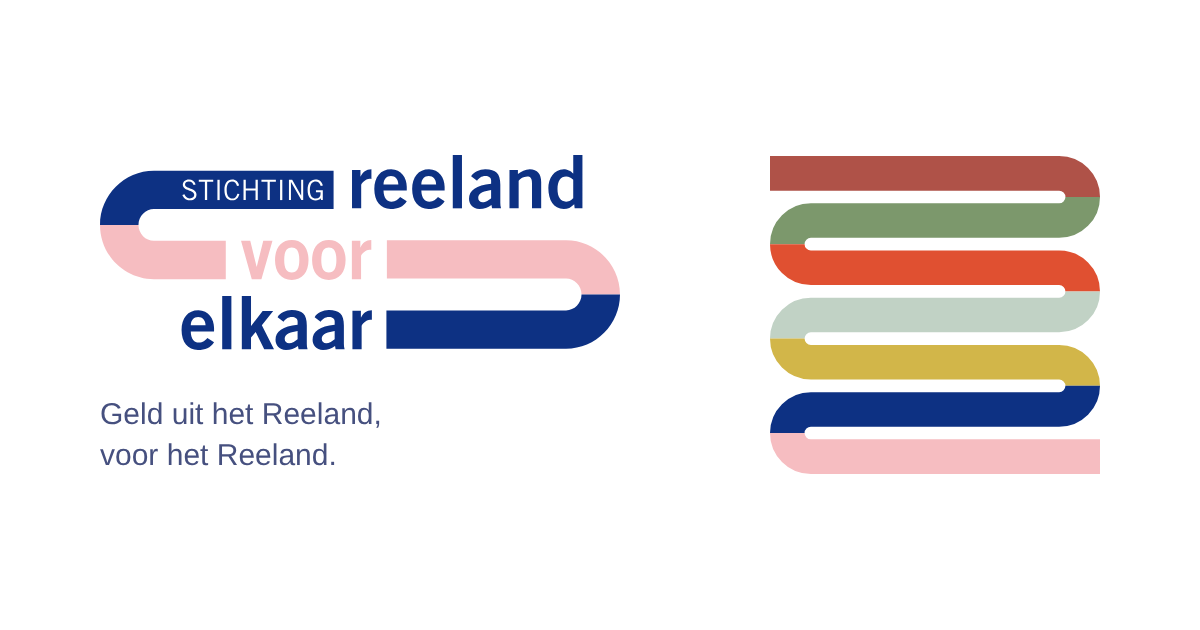
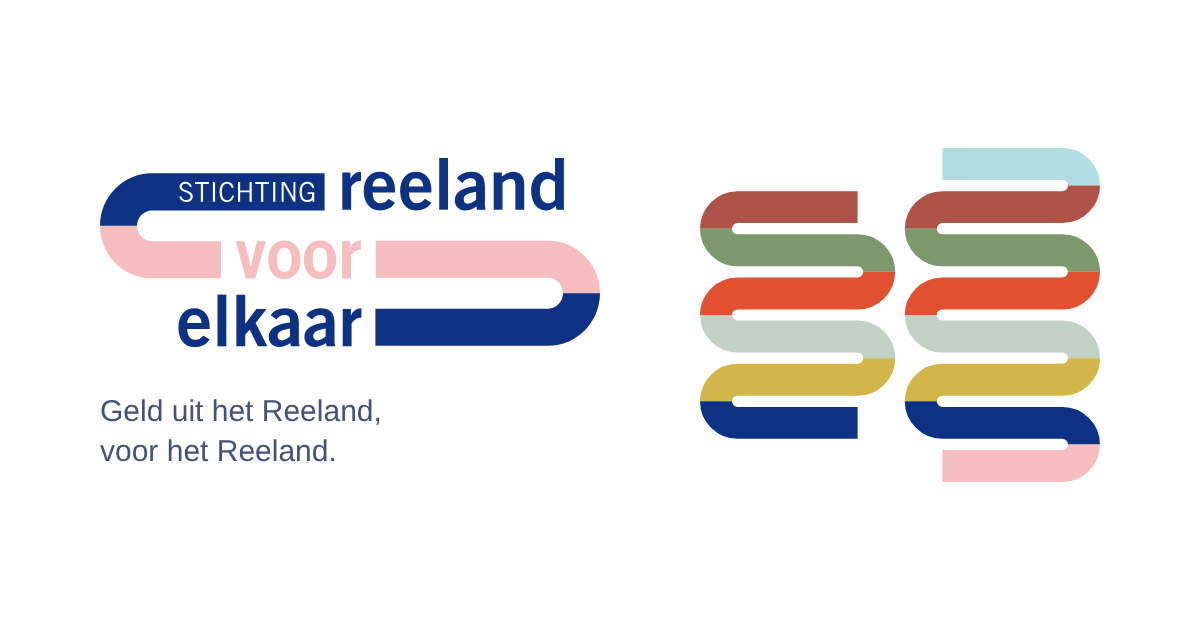
Stijlelement en kleur per thema volgens het blad van Leen Oud
Homepage krijgt het stijlelement met twee kolommen slingers; elk thema een
eigen kleurpaar uit de logovarianten. Deelafbeelding vernieuwd.

Claude-Session: https://claude.ai/code/session_014gqkHJsQK4uHPBucXaLvsH

Changed region(s): [[0.5858, 0.2111, 0.925, 0.7841], [0.0925, 0.2413, 0.5242, 0.573], [0.0617, 0.6333, 0.3083, 0.754]]

diff --git a/index.html b/index.html
@@ -13,8 +13,8 @@
   <meta property="og:url" content="https://reelandvoorelkaar.nl/index.html">
   <link rel="icon" href="assets/favicon.svg" type="image/svg+xml">
   <meta name="robots" content="noindex, nofollow">
-  <link rel="stylesheet" href="assets/style.css?v=202610132204">
-  <script src="assets/gate.js?v=202610132204"></script>
+  <link rel="stylesheet" href="assets/style.css?v=202610132208">
+  <script src="assets/gate.js?v=202610132208"></script>
 </head>
 <body data-pair="home">
   <a class="skip" href="#inhoud">Naar de inhoud</a>
@@ -40,14 +40,21 @@
             <a href="#hoor-ik-erbij">Hoor ik erbij?</a>
           </div>
         </div>
-        <svg class="hero__art" xmlns="http://www.w3.org/2000/svg" viewBox="0 0 420 404" fill="none" stroke-width="44" aria-hidden="true">
-  <path pathLength="1" d="M0 22 H52 H368 A30 30 0 0 1 398 52" stroke="#af5248"/>
-  <path pathLength="1" d="M398 52 A30 30 0 0 1 368 82 H52 A30 30 0 0 0 22 112" stroke="#7c986c"/>
-  <path pathLength="1" d="M22 112 A30 30 0 0 0 52 142 H368 A30 30 0 0 1 398 172" stroke="#e05031"/>
-  <path pathLength="1" d="M398 172 A30 30 0 0 1 368 202 H52 A30 30 0 0 0 22 232" stroke="#c1d2c5"/>
-  <path pathLength="1" d="M22 232 A30 30 0 0 0 52 262 H368 A30 30 0 0 1 398 292" stroke="#d2b649"/>
-  <path pathLength="1" d="M398 292 A30 30 0 0 1 368 322 H52 A30 30 0 0 0 22 352" stroke="#0d3183"/>
-  <path pathLength="1" d="M22 352 A30 30 0 0 0 52 382 H368 H420" stroke="#f6bdc1"/>
+        <svg class="hero__art" xmlns="http://www.w3.org/2000/svg" viewBox="0 0 500 418" fill="none" stroke-width="40" aria-hidden="true">
+  <path d="M197 74 H47 A27 27 0 0 0 20 101" stroke="#af5248"/>
+  <path d="M20 101 A27 27 0 0 0 47 128 H197 A27 27 0 0 1 224 155" stroke="#7c986c"/>
+  <path d="M224 155 A27 27 0 0 1 197 182 H47 A27 27 0 0 0 20 209" stroke="#e05031"/>
+  <path d="M20 209 A27 27 0 0 0 47 236 H197 A27 27 0 0 1 224 263" stroke="#c1d2c5"/>
+  <path d="M224 263 A27 27 0 0 1 197 290 H47 A27 27 0 0 0 20 317" stroke="#d2b649"/>
+  <path d="M20 317 A27 27 0 0 0 47 344 H197" stroke="#0d3183"/>
+  <path d="M303 20 H453 A27 27 0 0 1 480 47" stroke="#b2dde5"/>
+  <path d="M480 47 A27 27 0 0 1 453 74 H303 A27 27 0 0 0 276 101" stroke="#af5248"/>
+  <path d="M276 101 A27 27 0 0 0 303 128 H453 A27 27 0 0 1 480 155" stroke="#7c986c"/>
+  <path d="M480 155 A27 27 0 0 1 453 182 H303 A27 27 0 0 0 276 209" stroke="#e05031"/>
+  <path d="M276 209 A27 27 0 0 0 303 236 H453 A27 27 0 0 1 480 263" stroke="#c1d2c5"/>
+  <path d="M480 263 A27 27 0 0 1 453 290 H303 A27 27 0 0 0 276 317" stroke="#d2b649"/>
+  <path d="M276 317 A27 27 0 0 0 303 344 H453 A27 27 0 0 1 480 371" stroke="#0d3183"/>
+  <path d="M480 371 A27 27 0 0 1 453 398 H303" stroke="#f6bdc1"/>
 </svg>
 
       </div>
@@ -81,7 +88,7 @@
             <datalist id="straten-lijst"></datalist>
           </div>
         </div>
-        <p class="small mt-s">Of bekijk <a href="gebied.html">de vijf buurten en de kaart</a>.</p>
+        <p class="small mt-s">Of bekijk <a href="gebied.html">de vijf buurten</a>.</p>
       </div>
     </section>
     <section class="block" aria-labelledby="h-thema">
@@ -143,7 +150,7 @@
     </div>
   </footer>
 
-  <script src="assets/data.js?v=202610132204"></script>
-  <script src="assets/script.js?v=202610132204" defer></script>
+  <script src="assets/data.js?v=202610132208"></script>
+  <script src="assets/script.js?v=202610132208" defer></script>
 </body>
 </html>

diff --git a/assets/style.css b/assets/style.css
@@ -245,3 +245,21 @@ img, svg { max-width: 100%; }
 /* Lange regels en mailadressen mogen afbreken op smalle schermen */
 .board span { flex: 1 1 16rem; min-width: 0; }
 .facts dd, .foot p, .panel p { overflow-wrap: anywhere; min-width: 0; }
+
+/* Kleur per thema, zoals Leen voorstelt: elk thema een kleurpaar uit de logovarianten,
+   als klein slingertje (bovenste helft --t1, onderste --t2). */
+.list.tiles li { position: relative; padding-left: 3.4rem; }
+.list.tiles li::before, .list.tiles li::after {
+  content: ""; position: absolute; left: 0; width: 2.5rem; height: .8rem;
+  border: 8px solid; border-right: 0;
+}
+.list.tiles li::before { top: 1.2rem; border-color: var(--t1); border-bottom: 0; border-top-left-radius: .9rem; }
+.list.tiles li::after { top: 2rem; border-color: var(--t2); border-top: 0; border-bottom-left-radius: .9rem; }
+.list.tiles li:nth-child(7n+1) { --t1: var(--baksteen); --t2: var(--lichtblauw); }
+.list.tiles li:nth-child(7n+2) { --t1: var(--oranje); --t2: var(--groen); }
+.list.tiles li:nth-child(7n+3) { --t1: var(--mint); --t2: var(--oker); }
+.list.tiles li:nth-child(7n+4) { --t1: var(--groen); --t2: var(--baksteen); }
+.list.tiles li:nth-child(7n+5) { --t1: var(--blauw); --t2: var(--roze); }
+.list.tiles li:nth-child(7n+6) { --t1: var(--lichtblauw); --t2: var(--baksteen); }
+.list.tiles li:nth-child(7n+7) { --t1: var(--oker); --t2: var(--mint); }
+@media (min-width: 48em) { .hero__grid { grid-template-columns: 1fr 18rem; } }

diff --git a/aanvragen.html b/aanvragen.html
@@ -13,8 +13,8 @@
   <meta property="og:url" content="https://reelandvoorelkaar.nl/aanvragen.html">
   <link rel="icon" href="assets/favicon.svg" type="image/svg+xml">
   <meta name="robots" content="noindex, nofollow">
-  <link rel="stylesheet" href="assets/style.css?v=202610132204">
-  <script src="assets/gate.js?v=202610132204"></script>
+  <link rel="stylesheet" href="assets/style.css?v=202610132208">
+  <script src="assets/gate.js?v=202610132208"></script>
 </head>
 <body data-pair="aanvragen">
   <a class="skip" href="#inhoud">Naar de inhoud</a>
@@ -129,7 +129,7 @@
     </div>
   </footer>
 
-  <script src="assets/data.js?v=202610132204"></script>
-  <script src="assets/script.js?v=202610132204" defer></script>
+  <script src="assets/data.js?v=202610132208"></script>
+  <script src="assets/script.js?v=202610132208" defer></script>
 </body>
 </html>

diff --git a/gebied.html b/gebied.html
@@ -13,8 +13,8 @@
   <meta property="og:url" content="https://reelandvoorelkaar.nl/gebied.html">
   <link rel="icon" href="assets/favicon.svg" type="image/svg+xml">
   <meta name="robots" content="noindex, nofollow">
-  <link rel="stylesheet" href="assets/style.css?v=202610132204">
-  <script src="assets/gate.js?v=202610132204"></script>
+  <link rel="stylesheet" href="assets/style.css?v=202610132208">
+  <script src="assets/gate.js?v=202610132208"></script>
 </head>
 <body data-pair="gebied">
   <a class="skip" href="#inhoud">Naar de inhoud</a>
@@ -104,7 +104,7 @@
     </div>
   </footer>
 
-  <script src="assets/data.js?v=202610132204"></script>
-  <script src="assets/script.js?v=202610132204" defer></script>
+  <script src="assets/data.js?v=202610132208"></script>
+  <script src="assets/script.js?v=202610132208" defer></script>
 </body>
 </html>

diff --git a/over-ons.html b/over-ons.html
@@ -13,8 +13,8 @@
   <meta property="og:url" content="https://reelandvoorelkaar.nl/over-ons.html">
   <link rel="icon" href="assets/favicon.svg" type="image/svg+xml">
   <meta name="robots" content="noindex, nofollow">
-  <link rel="stylesheet" href="assets/style.css?v=202610132204">
-  <script src="assets/gate.js?v=202610132204"></script>
+  <link rel="stylesheet" href="assets/style.css?v=202610132208">
+  <script src="assets/gate.js?v=202610132208"></script>
 </head>
 <body data-pair="over">
   <a class="skip" href="#inhoud">Naar de inhoud</a>
@@ -88,7 +88,7 @@
     </div>
   </footer>
 
-  <script src="assets/data.js?v=202610132204"></script>
-  <script src="assets/script.js?v=202610132204" defer></script>
+  <script src="assets/data.js?v=202610132208"></script>
+  <script src="assets/script.js?v=202610132208" defer></script>
 </body>
 </html>

diff --git a/privacy.html b/privacy.html
@@ -13,8 +13,8 @@
   <meta property="og:url" content="https://reelandvoorelkaar.nl/privacy.html">
   <link rel="icon" href="assets/favicon.svg" type="image/svg+xml">
   <meta name="robots" content="noindex, nofollow">
-  <link rel="stylesheet" href="assets/style.css?v=202610132204">
-  <script src="assets/gate.js?v=202610132204"></script>
+  <link rel="stylesheet" href="assets/style.css?v=202610132208">
+  <script src="assets/gate.js?v=202610132208"></script>
 </head>
 <body data-pair="over">
   <a class="skip" href="#inhoud">Naar de inhoud</a>
@@ -74,7 +74,7 @@
     </div>
   </footer>
 
-  <script src="assets/data.js?v=202610132204"></script>
-  <script src="assets/script.js?v=202610132204" defer></script>
+  <script src="assets/data.js?v=202610132208"></script>
+  <script src="assets/script.js?v=202610132208" defer></script>
 </body>
 </html>

diff --git a/404.html b/404.html
@@ -13,8 +13,8 @@
   <meta property="og:url" content="https://reelandvoorelkaar.nl/404.html">
   <link rel="icon" href="assets/favicon.svg" type="image/svg+xml">
   <meta name="robots" content="noindex, nofollow">
-  <link rel="stylesheet" href="assets/style.css?v=202610132204">
-  <script src="assets/gate.js?v=202610132204"></script>
+  <link rel="stylesheet" href="assets/style.css?v=202610132208">
+  <script src="assets/gate.js?v=202610132208"></script>
 </head>
 <body data-pair="home">
   <a class="skip" href="#inhoud">Naar de inhoud</a>
@@ -62,7 +62,7 @@
     </div>
   </footer>
 
-  <script src="assets/data.js?v=202610132204"></script>
-  <script src="assets/script.js?v=202610132204" defer></script>
+  <script src="assets/data.js?v=202610132208"></script>
+  <script src="assets/script.js?v=202610132208" defer></script>
 </body>
 </html>

diff --git a/tools/maak-stijlelement.py b/tools/maak-stijlelement.py
@@ -1,0 +1,52 @@
+# Gebruik: python3 tools/maak-stijlelement.py assets/slinger.svg
+# Stijlelement naar het blad van Leen Oud: twee gespiegelde kolommen slingers,
+# banen op gelijke hoogte, kleurwissel midden in elke bocht.
+import sys
+SW, R = 40, 27                 # banddikte, straal hart; tussenruimte = 2R - SW = 14
+P = 2 * R                      # afstand tussen banen
+C = ['#b2dde5', '#af5248', '#7c986c', '#e05031', '#c1d2c5', '#d2b649', '#0d3183', '#f6bdc1']
+
+def kolom(xl, xr, rows, first_bend):
+    """rows: lijst (rij, kleur). first_bend: 'r' of 'l' = kant van de eerste bocht."""
+    paden = []
+    n = len(rows)
+    for i, (k, kl) in enumerate(rows):
+        y = 20 + k * P
+        bend_out = first_bend if i % 2 == 0 else ('l' if first_bend == 'r' else 'r')   # bocht na deze baan
+        bend_in = None if i == 0 else ('l' if bend_out == 'r' else 'r')                # bocht voor deze baan
+        # richting: naar de kant van bend_out
+        sx, ex = (xl, xr) if bend_out == 'r' else (xr, xl)
+        d = ''
+        if bend_in is None:
+            d += f'M{sx:.0f} {y} '
+        else:
+            cx = xl if bend_in == 'l' else xr
+            px = cx - R if bend_in == 'l' else cx + R
+            sweep = 0 if bend_in == 'l' else 1
+            d += f'M{px:.0f} {y - R} A{R} {R} 0 0 {sweep} {cx:.0f} {y} '
+        if i < n - 1:
+            d += f'H{ex:.0f} '
+            mx = ex + R if bend_out == 'r' else ex - R
+            sweep = 1 if bend_out == 'r' else 0
+            d += f'A{R} {R} 0 0 {sweep} {mx:.0f} {y + R}'
+        else:
+            d += f'H{ex:.0f}'
+        paden.append(f'<path d="{d}" stroke="{kl}"/>')
+    return paden
+
+B = R + SW / 2                         # hoe ver een bocht uitsteekt
+M = 12                                 # ruimte tussen de bochten in het midden
+KOL = 150                              # lengte van de rechte stukken
+lx0 = B; lx1 = lx0 + KOL
+rx0 = lx1 + 2 * B + M; rx1 = rx0 + KOL
+W = rx1 + B
+# rechterkolom: rij 0..7, eerste bocht rechts; linkerkolom: rij 1..6, eerste bocht links (spiegel)
+rechts = kolom(rx0, rx1, [(k, C[k]) for k in range(8)], 'r')
+links = kolom(lx0 - 0, lx1, [(k, C[k]) for k in range(1, 7)], 'l')
+# open uiteinden: rechterkolom begint links bij het midden, eindigt aan de rechterkant;
+# linkerkolom begint en eindigt bij het midden.
+H = 20 + 7 * P + SW / 2
+svg = [f'<svg xmlns="http://www.w3.org/2000/svg" viewBox="0 0 {W} {H:.0f}" fill="none" stroke-width="{SW}" aria-hidden="true">']
+svg += ['  ' + p for p in links + rechts]
+svg.append('</svg>')
+open(sys.argv[1], 'w').write('\n'.join(svg) + '\n')

diff --git a/tools/maak-paginas.py b/tools/maak-paginas.py
@@ -25,8 +25,8 @@ def page(fn, title, desc, pair, logo, body):
   <meta property="og:url" content="https://reelandvoorelkaar.nl/{fn}">
   <link rel="icon" href="assets/favicon.svg" type="image/svg+xml">
   <meta name="robots" content="noindex, nofollow">
-  <link rel="stylesheet" href="assets/style.css?v=202610132204">
-  <script src="assets/gate.js?v=202610132204"></script>
+  <link rel="stylesheet" href="assets/style.css?v=202610132208">
+  <script src="assets/gate.js?v=202610132208"></script>
 </head>
 <body data-pair="{pair}">
   <a class="skip" href="#inhoud">Naar de inhoud</a>
@@ -67,8 +67,8 @@ def page(fn, title, desc, pair, logo, body):
     </div>
   </footer>
 
-  <script src="assets/data.js?v=202610132204"></script>
-  <script src="assets/script.js?v=202610132204" defer></script>
+  <script src="assets/data.js?v=202610132208"></script>
+  <script src="assets/script.js?v=202610132208" defer></script>
 </body>
 </html>
 '''
@@ -121,7 +121,7 @@ home = f'''    <section class="hero" aria-labelledby="kop">
           <li><span class="flow__label">Stap 2</span><h3>Het blijft in het Reeland</h3><p>Dordrecht is verdeeld in 24 trekkingsgebieden. Het fonds houdt het geld per gebied bij elkaar. Het Reeland is trekkingsgebied 15, en Stichting Reeland voor Elkaar beheert het geld voor dit gebied.</p></li>
           <li><span class="flow__label">Stap 3</span><h3>Het komt terug</h3><p>Ondernemers en organisaties uit het Reeland dienen samen een plan in. Het bestuur beoordeelt de aanvraag en ziet erop toe dat het geld goed wordt besteed.</p></li>
         </ol>''', label='h-werkt') + lane('l', 'groen', 'oranje', checker.format(k='home') + '''
-        <p class="small mt-s">Of bekijk <a href="gebied.html">de vijf buurten en de kaart</a>.</p>''', id_='hoor-ik-erbij', label='h-check') + lane('r', 'oranje', 'oker', '''        <h2 id="h-thema">Waarvoor kun je aanvragen?</h2>
+        <p class="small mt-s">Of bekijk <a href="gebied.html">de vijf buurten</a>.</p>''', id_='hoor-ik-erbij', label='h-check') + lane('r', 'oranje', 'oker', '''        <h2 id="h-thema">Waarvoor kun je aanvragen?</h2>
         <p class="intro">Voor plannen van en voor ondernemers die ook goed zijn voor het gebied. Hoe meer ondernemers en organisaties uit het Reeland je plan steunen, hoe sterker je aanvraag. Bijvoorbeeld op deze terreinen:</p>
         <ul class="list list--2 tiles">
           <li><h3>Samen organiseren</h3><p>Ondernemers in het Reeland beter met elkaar verbinden en organiseren.</p></li>

diff --git a/README.md b/README.md
@@ -17,9 +17,9 @@ Website van Stichting Reeland voor Elkaar, trekkingsgebied 15 van het Ondernemer
 | `assets/script.js` | Straatzoeker, datums, stratenlijst |
 | `assets/gate.js` | Tijdelijke toegangscode tijdens de opbouw |
 | `assets/logo/` | Logo van Leen Oud: `logo-1` t/m `logo-5`, `logo-wit`, origineel |
-| `assets/slinger.svg`, `assets/deelafbeelding.png` | Stijlelement en afbeelding voor delen op WhatsApp en sociale media |
+| `assets/slinger.svg`, `assets/deelafbeelding.png` | Stijlelement (twee kolommen, naar het blad van Leen; opnieuw maken met `tools/maak-stijlelement.py`) en afbeelding voor delen |
 
-Elke pagina gebruikt een eigen logovariant (home blauw/roze, gebied oranje/groen, aanvragen baksteen/lichtblauw, over ons groen/baksteen) en een lichte tint (`data-pair` op `<body>`). De slinger komt terug als stappenlijst (`ol.flow`) en als bocht in de paginakop (`.kopband`).
+Elke pagina gebruikt een eigen logovariant (home blauw/roze, gebied oranje/groen, aanvragen baksteen/lichtblauw, over ons groen/baksteen) en een lichte tint (`data-pair` op `<body>`). De slinger komt terug als stappenlijst (`ol.flow`), als bocht in de paginakop (`.kopband`) en als klein slingertje per thema in een eigen kleurpaar (`.list.tiles`), zoals Leen voorstelt: verschillende kleurcombinaties voor verschillende soorten aanvragen.
 
 ## Tekst aanpassen
 
